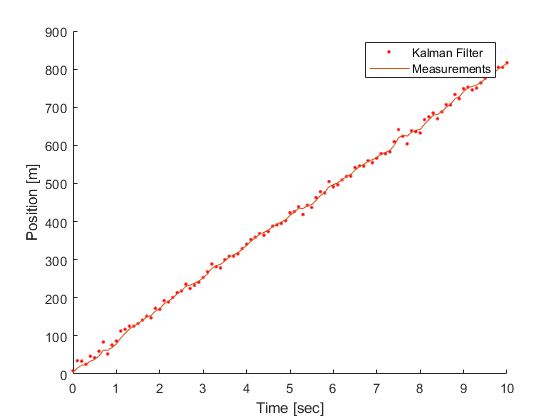
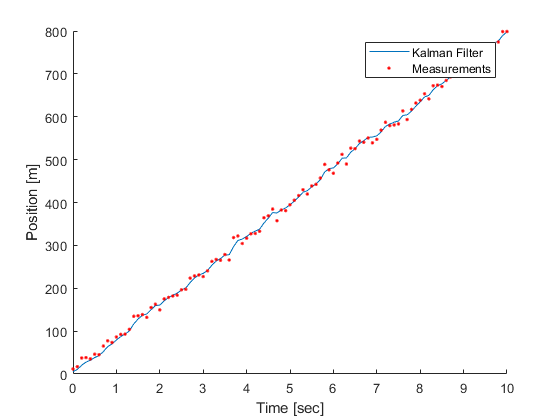
update

diff --git a/11. DvKalman/TestDvKalman2.m b/11. DvKalman/TestDvKalman2.m
@@ -1,0 +1,40 @@
+clear all
+
+% 초음파 거리계를 사용 (getsonar)
+% 거리의 궤적을 비교한 그래프 칼만 필터의 추정값으 실선, 추정값은 점으로
+% 그래프에 시간지연이 거의 보이지 않고, 잡음 제거와 변화 민감성이라는 두 가지 목표를 이룸
+
+% 칼만 필터가 추정한 속도와 추정거리의 변화율과 추정거리 속도를 비교했을때 추정 속도가 나름 타당하다는 것을 알수있음.
+Nsamples = 500;
+
+Xsaved = zeros(Nsamples, 2);
+Zsaved = zeros(Nsamples, 1);
+
+for k=1:Nsamples
+  z = GetSonar();      
+  [pos vel] = DvKalman(z);
+  
+  Xsaved(k, :) = [pos vel];
+  Zsaved(k)    = z;
+end
+
+
+dt = 0.02;
+t  = 0:dt:Nsamples*dt-dt;
+
+figure
+hold on
+plot(t, Xsaved(:, 1))
+plot(t, Zsaved(:), 'r.')
+xlabel('Time [sec]')
+ylabel('Distance [m]')
+legend('Kalman Filter', 'Measurements')
+
+figure
+hold on
+plot(t, Xsaved(:, 1))
+plot(t, Xsaved(:, 2))
+xlabel('Time [sec]')
+ylabel('Velocity [m/s]')
+legend('Distance', 'Velocity')
+

diff --git a/11. DvKalman/TestIntKalman.m b/11. DvKalman/TestIntKalman.m
@@ -9,31 +9,26 @@ Nsamples = length(t);
 
 Xsaved = zeros(Nsamples, 2);
 Zsaved = zeros(Nsamples, 1);
-TVel = zeros(Nsamples, 1);
 
 for k=1:Nsamples
-  [z,v] = GetPos();      
-  [pos vel] = DvKalman(z);
+  z = GetVel();      
+  [pos vel] = IntKalman(z);
   
   Xsaved(k, :) = [pos vel];
   Zsaved(k)    = z;
-  TVel(k) = v;
 end
 
 
 figure
-hold on
 plot(t, Xsaved(:, 1))
-plot(t, Zsaved(:), 'r.')
 xlabel('Time [sec]')
-ylabel('Position [m]')
-legend('Kalman Filter', 'Measurements')
+ylabel('Position')
+
 
 figure
 hold on
 plot(t, Xsaved(:, 2))
-plot(t, TVel(:), 'r-.');
+plot(t, Zsaved(:), 'r.')
 xlabel('Time [sec]')
 ylabel('Velocity [m/s]')
-legend('Kalman Filter', 'True speed')
-
+legend('Kalman Filter', 'Measurements')

diff --git a/11. DvKalman/TestDeDvKalman.m b/11. DvKalman/TestDeDvKalman.m
@@ -1,0 +1,38 @@
+clear all
+
+
+dt = 0.1;
+t  = 0:dt:10;
+
+Nsamples = length(t);
+
+Xsaved   = zeros(Nsamples, 2);
+DeXsaved = zeros(Nsamples, 2);
+Zsaved   = zeros(Nsamples, 1);
+
+for k=1:Nsamples
+  z = GetPos();      
+  [pos vel]   = DvKalman(z);
+  [dpos dvel] = DeDvKalman(z);
+  
+  Xsaved(k, :)   = [pos vel];
+  DeXsaved(k, :) = [dpos dvel];
+  Zsaved(k)      = z;
+end
+
+
+figure
+hold on
+plot(t, Xsaved(:, 1))
+plot(t, DeXsaved(:,1), 'r.')
+xlabel('Time [sec]')
+ylabel('Position [m]')
+legend('Kalman Filter', 'Measurements')
+
+figure
+hold on
+plot(t, Xsaved(:, 2))
+plot(t, DeXsaved(:,2), 'r.')
+xlabel('Time [sec]')
+ylabel('Velocity [m/s]')
+legend('Decomposed', 'Matrix')

diff --git a/11. DvKalman/IntKalman.m b/11. DvKalman/IntKalman.m
@@ -1,0 +1,39 @@
+function [pos vel] = IntKalman(z)
+%
+% GetVel
+% 속도로 위치 측정하기
+persistent A H Q R 
+persistent x P
+persistent firstRun
+
+
+if isempty(firstRun)
+  firstRun = 1;
+  
+  dt = 0.1;
+  
+  % 위치로 속도 측정때와는 다르게 시스템 모델 변수 H를 변경함
+  % H = [1, 0]에서 H = [0, 1]로 변경
+  A = [ 1 dt;
+        0 1  ];
+  H = [0 1];
+  
+  Q = [ 1 0;
+        0 3 ];
+  R = 10;
+
+  x = [ 0 20 ]';
+  P = 5*eye(2);
+end
+
+  
+xp = A*x;  
+Pp = A*P*A' + Q;    
+
+K = Pp*H'*inv(H*Pp*H' + R);
+
+x = xp + K*(z - H*xp);
+P = Pp - K*H*Pp;   
+  
+pos = x(1);
+vel = x(2);

diff --git a/11. DvKalman/DeDvKalman.m b/11. DvKalman/DeDvKalman.m
@@ -1,0 +1,37 @@
+function [pos vel] = DeDvKalman(z)
+%
+%
+persistent A H Q R 
+persistent x P
+persistent firstRun
+
+
+if isempty(firstRun)
+  firstRun = 1;
+  
+  dt = 0.1;
+  
+  A = [ 1 dt;
+        0 1  ];
+  H = [1 0];
+  
+  Q = [ 1 0;
+        0 3 ];
+  R = 10;
+
+  x = [ 0 20 ]';
+  P = 5*eye(2);
+end
+
+
+xp = A*x;  
+Pp = A*P*A' + Q;    
+
+K = 1 / (Pp(1,1) + R) * [Pp(1,1) Pp(2,1)]';  % Pp*H'*inv(H*Pp*H' + R);
+
+x = xp + K*(z - H*xp);
+P = Pp - K*H*Pp;   
+  
+ 
+pos = x(1);
+vel = x(2);

diff --git a/11. DvKalman/GetVel.m b/11. DvKalman/GetVel.m
@@ -1,0 +1,19 @@
+function z = GetVel()
+%
+%
+persistent Velp Posp
+
+
+if isempty(Posp)
+  Posp = 0;
+  Velp = 80;
+end
+
+dt = 0.1;
+
+v  = 0 +  10*randn;
+
+Posp = Posp + Velp*dt;     % true position
+Velp = 80 + v;             % true speed
+
+z = Velp;

diff --git a/11. DvKalman/GetSonar.m b/11. DvKalman/GetSonar.m
@@ -1,0 +1,17 @@
+function h = GetSonar()
+%
+%
+persistent sonarAlt       % SonartAlt.mat
+persistent k firstRun
+
+
+if isempty(firstRun)
+  load SonarAlt
+  k = 1;
+  
+  firstRun = 1;
+end
+
+h = sonarAlt(k);
+  
+k = k + 1;

diff --git a/11. DvKalman/DvKalman.m b/11. DvKalman/DvKalman.m
@@ -1,6 +1,7 @@
 function [pos vel] = DvKalman(z)
 %
-%
+% GetPos
+% 위치로 속도 측정하기
 persistent A H Q R 
 persistent x P
 persistent firstRun

diff --git a/README.md b/README.md
@@ -4,9 +4,10 @@
 ### KalmanFilter
  * MATLAB 활용 칼만필터의 이해 - 김성필 참고
 
-* * * * * * * * * * * * * * * * * * * * * * * * * * * * * * * * * * * * * * * * * * * * * * * * * * * * * * * * * * * * * * * *
-* * * * * * * * * * * * * * * * * * * * * * * * * * * * * * * * * * * * * * * * * * * * * * * * * * * * * * * * * * * * * * * *
-
+* * * * * * * * * * * * * * * * * * * * * * * * * * * 
+ * * * * * * * * * * * * * * * * * * * * * * * * * * * 
+ * * * * * * * * * * * * * * * * * * * * * * * * * * * 
+ * * * * * * * * * * * * * * * * * * * * * * * * * * * s
 + `AvgFilter(평균 필터)` : 
      1. 재귀식을 사용하는 평균 필터는 직전의 평균값과 데이터의 개수만 알면 쉽게 평균을 구할 수 있음.
      2. 데이터가 순차적으로 입력되는 경우에는 데이터를 저장할 필요가 없고 계산 효율도 높음.
@@ -21,11 +22,10 @@
 + 특징
     * 평균 필터를 사용하게 되면 기존 물리적인 센서로 불러왔던 데이터들의 평균을 낼 수 있긴 하지만 동적으로 움직이게 하지는 못함.   
     * 그러므로 물리적인 센서의 평균은 낼 수는 있지만 실시간으로 업데이팅하는 것은 힘들 수 있음.  
-    #
-
-* * * * * * * * * * * * * * * * * * * * * * * * * * * * * * * * * * * * * * * * * * * * * * * * * * * * * * * * * * * * * * * *
-* * * * * * * * * * * * * * * * * * * * * * * * * * * * * * * * * * * * * * * * * * * * * * * * * * * * * * * * * * * * * * * *
-
+* * * * * * * * * * * * * * * * * * * * * * * * * * * 
+ * * * * * * * * * * * * * * * * * * * * * * * * * * * 
+ * * * * * * * * * * * * * * * * * * * * * * * * * * * 
+ * * * * * * * * * * * * * * * * * * * * * * * * * * * 
 + `MovAvgFilter(이동평균 필터)` : 
      1. 주로 증권가에서 사용되며 매일매일 주가변동에 현혹되지 않고 중장기 추이를 확인하고 싶을 때 주로 사용되는 것이 이동평균 필터.
      2. 측정하려는 물리량이 시간에 따라 변하면 평균은 적절하지 못함 
@@ -53,11 +53,11 @@
     * 이렇게 새로 데이터가 추가되면 가장 오래된 데이터도 순차적으로 이동 
         --> 이동평균 필터를 구현하려면 최신데이터를 포함해 n개의 최근 데이터를 모두 보관하고 있면서 새로운 데이터가 입력될때마다 갱신해야함 
         --> 재귀식임에도 불구하고 메모리 저장 공간의 이점이 사라짐.  
-#
 
-* * * * * * * * * * * * * * * * * * * * * * * * * * * * * * * * * * * * * * * * * * * * * * * * * * * * * * * * * * * * * * * *
-* * * * * * * * * * * * * * * * * * * * * * * * * * * * * * * * * * * * * * * * * * * * * * * * * * * * * * * * * * * * * * * *
-
+* * * * * * * * * * * * * * * * * * * * * * * * * * * 
+ * * * * * * * * * * * * * * * * * * * * * * * * * * * 
+ * * * * * * * * * * * * * * * * * * * * * * * * * * * 
+ * * * * * * * * * * * * * * * * * * * * * * * * * * * 
 + `LPF(저주파 통과 필터)` : 
      1. 저주파 통과 필터(Low-Pass Filter)는 이름 그대로 저주파 신호는 통과시키고 고주파 신호는 걸러내는 필터.
      2. 잡음 제거용으로 많이 쓰이고, 대개 측정하려는 신호는 저주파이고 잡음은 고주파 성분으로 되어있기때문.
@@ -77,9 +77,10 @@
      - 저주파 통과 필터는 수식이 매우 간단하여 구현하기 쉬움
      - 이동 평균 필터와 달리 최신 측정값일수록 가중치를 높게주는 좋은 특성을 지녔음.  
 
-* * * * * * * * * * * * * * * * * * * * * * * * * * * * * * * * * * * * * * * * * * * * * * * * * * * * * * * * * * * * * * * *
-* * * * * * * * * * * * * * * * * * * * * * * * * * * * * * * * * * * * * * * * * * * * * * * * * * * * * * * * * * * * * * * *  
-
+* * * * * * * * * * * * * * * * * * * * * * * * * * * 
+ * * * * * * * * * * * * * * * * * * * * * * * * * * * 
+ * * * * * * * * * * * * * * * * * * * * * * * * * * * 
+ * * * * * * * * * * * * * * * * * * * * * * * * * * * 
 
 + `SimpleKalman(칼만 필터)` :   
 <img src ="/Images/Simplekalman/KalmanFilter_AG.png"> 
@@ -148,6 +149,12 @@
     --> 추정값에 기여하는 바가 크다  
     --> 예측값은 추정값에 기여하는 바가 작다.
  
+ * * * * * * * * * * * * * * * * * * * * * * * * * * * 
+ * * * * * * * * * * * * * * * * * * * * * * * * * * * 
+ * * * * * * * * * * * * * * * * * * * * * * * * * * * 
+ * * * * * * * * * * * * * * * * * * * * * * * * * * * 
+ 
++ `칼만 필터 예제(DvKalman)` : 
+     
 
-+ `칼만 필터 예제(SimpleKalman)` : 
 <img src ="/Images/DvKalman/DvKalman_Position.png">
